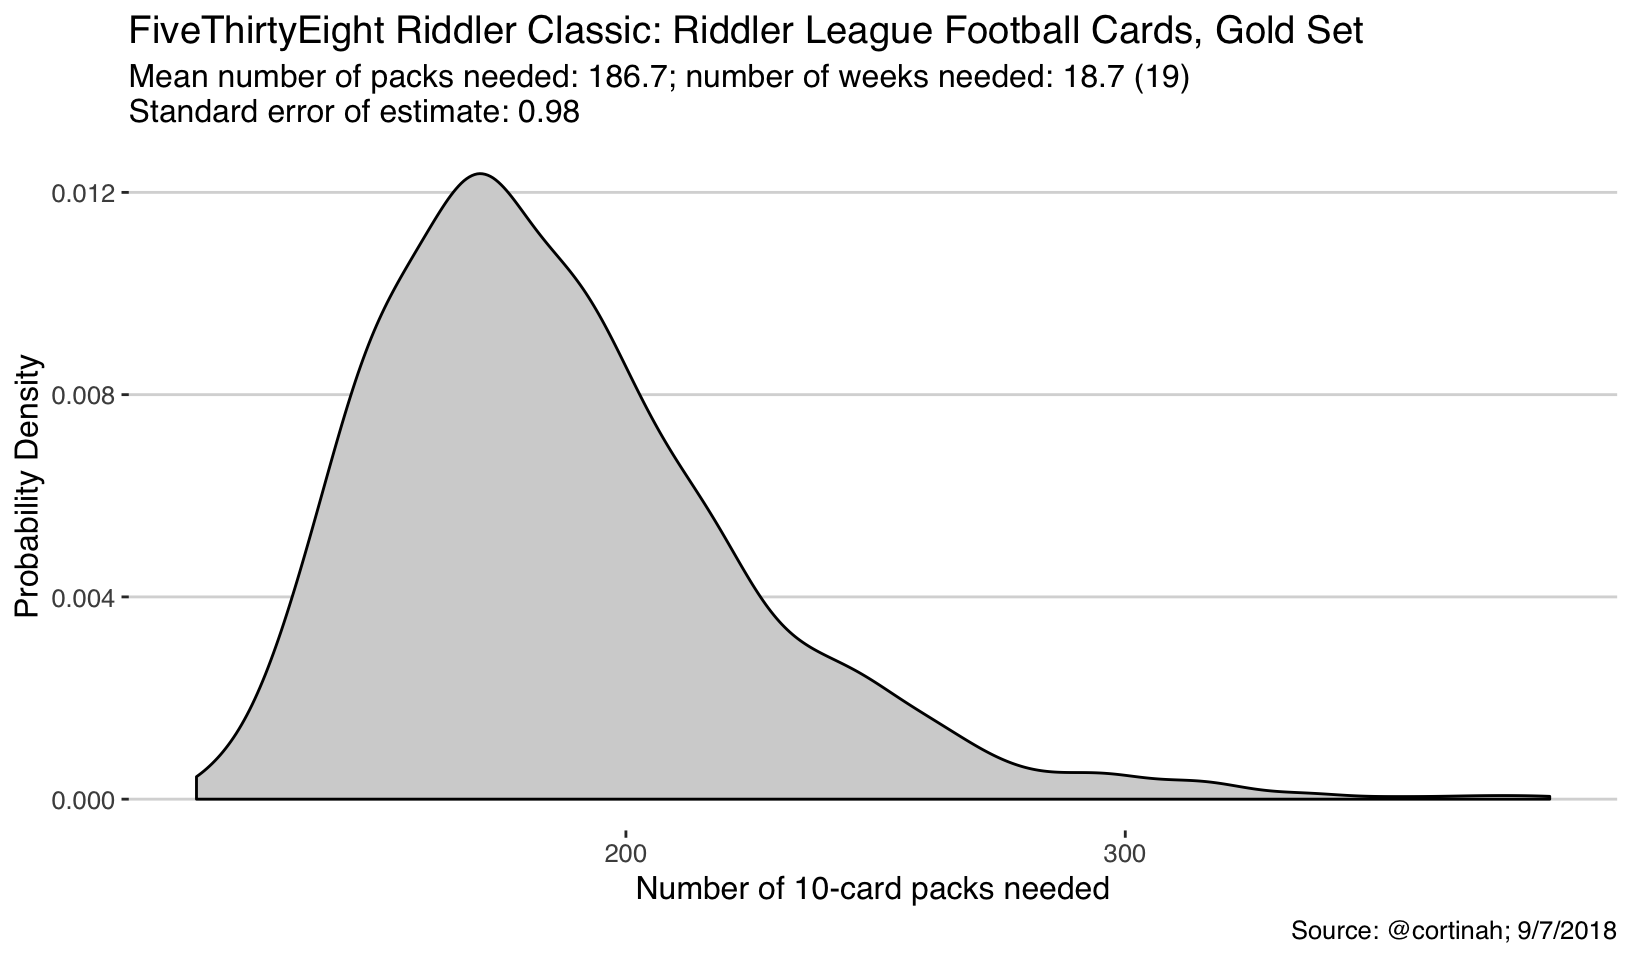
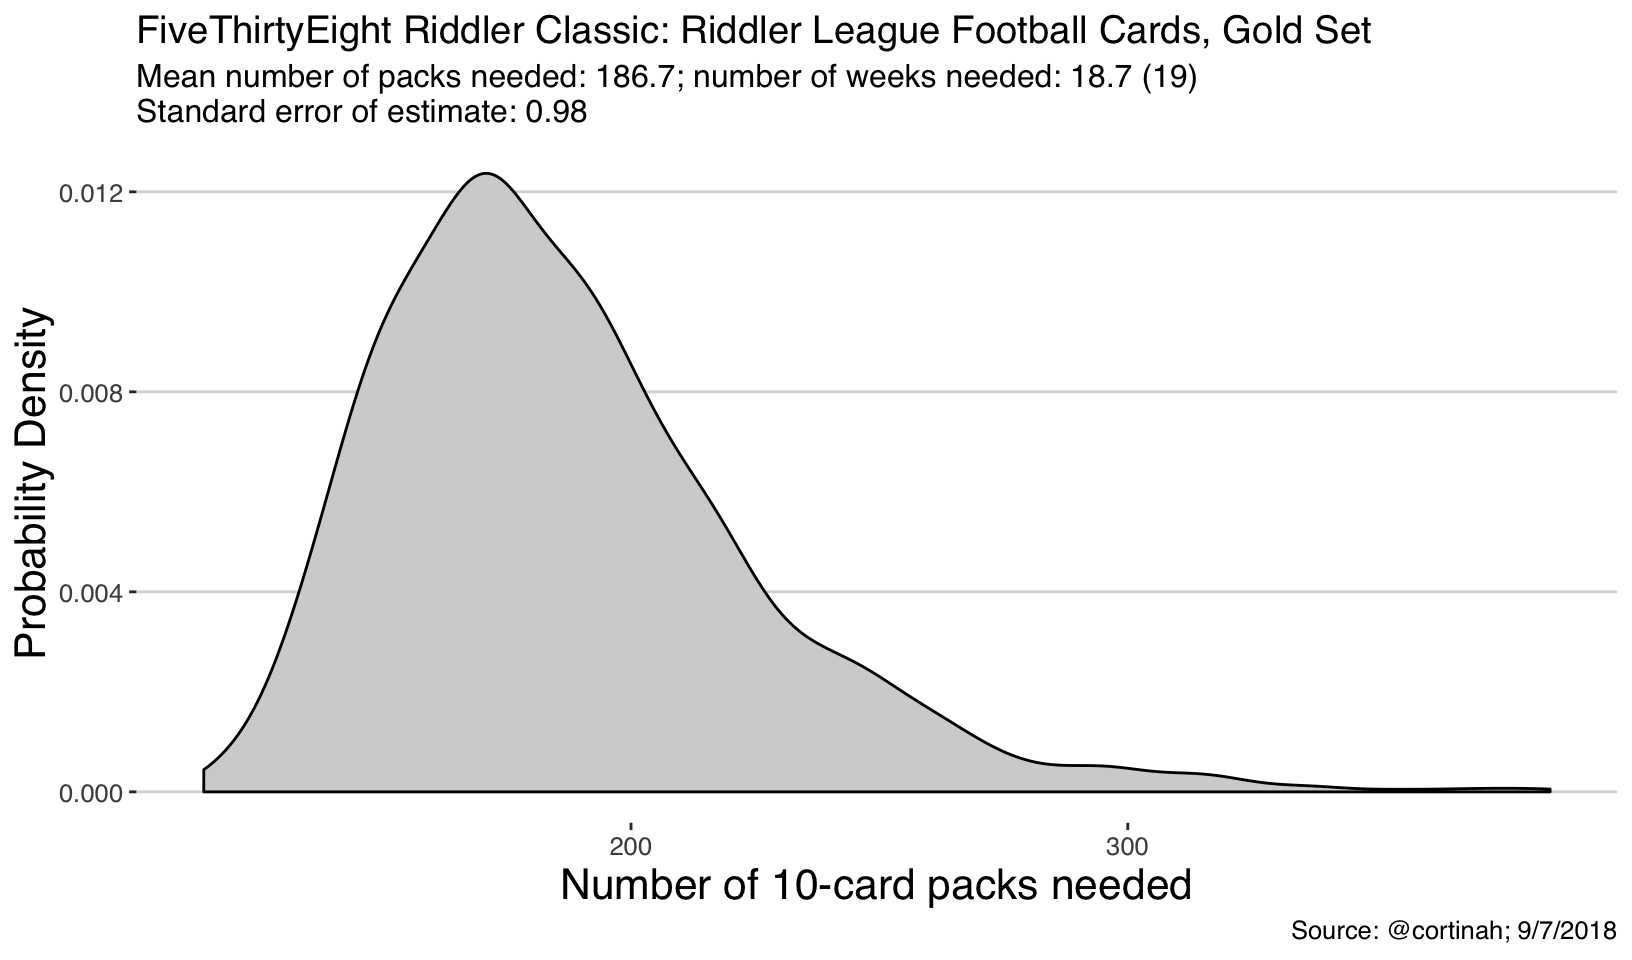
added animation

diff --git a/content/post/2018-09-08-riddler-classic-football-cards.html b/content/post/2018-09-08-riddler-classic-football-cards.html
@@ -51,7 +51,7 @@ ggplot(as.data.frame(total),aes(x=total)) +geom_density(fill=&#39;lightgrey&#39;
   theme_hc() +labs(x=&#39;Number of 10-card packs needed&#39;,
                    title=&#39;FiveThirtyEight Riddler Classic: Riddler League Football Cards, Silver Set&#39;,
                    caption=&#39;Source: @cortinah; 9/7/2018&#39;,y=&#39;Probability Density&#39;,
-                   subtitle=&#39;Mean number of packs needed: 49.7; number of weeks needed: 4.97 (5)\nStandard error of estimate: 0.24&#39;)</code></pre>
+                   subtitle=&#39;Mean number of packs needed: 49.7; number of weeks needed: 4.97 (5)\nStandard error of estimate: 0.24&#39;) +theme(axis.title = element_text(size=16))</code></pre>
 <p><img src="/post/2018-09-08-riddler-classic-football-cards_files/figure-html/silver-1.png" width="816" /></p>
 <pre class="r"><code>all_runs[is.na(all_runs)] &lt;- 100
 
@@ -69,8 +69,13 @@ ggplot(all_runs,aes(x=run,y=value)) +geom_line(aes(color=key)) +theme_hc() +
 </div>
 <div id="gold-set-simulation-300-cards" class="section level3">
 <h3>Gold set simulation (300 cards)</h3>
-<p>The Gold set requires 300 unique cards and therefore on average about 187 10-card packs. Since it’s more computationally intensive, I reduce the number of simulations to 1,500 which results in a standard error of the mean of about one.</p>
+<p>The Gold set requires 300 unique cards and therefore on average about 187 10-card packs. Since it’s more computationally intensive –and I’m not very patient– I reduce the number of simulations to 1,500 which results in a standard error of the mean of about one.</p>
 <p><img src="/post/2018-09-08-riddler-classic-football-cards_files/figure-html/gold-1.png" width="816" /><img src="/post/2018-09-08-riddler-classic-football-cards_files/figure-html/gold-2.png" width="816" /></p>
+</div>
+<div id="lets-end-with-an-animation-of-the-gold-set-simulation" class="section level3">
+<h3>Let’s end with an animation of the Gold Set simulation</h3>
+<p>Everyone seems to love animated gifs nowadays.</p>
+<p><img src="/post/2018-09-08-riddler-classic-football-cards_files/silveranim-crop.gif" style="width:100.0%" /></p>
 <p>As always, thank you Oliver Roeder (<span class="citation">@ollie</span>) for the fun riddlers.</p>
 </div>
 </div>
